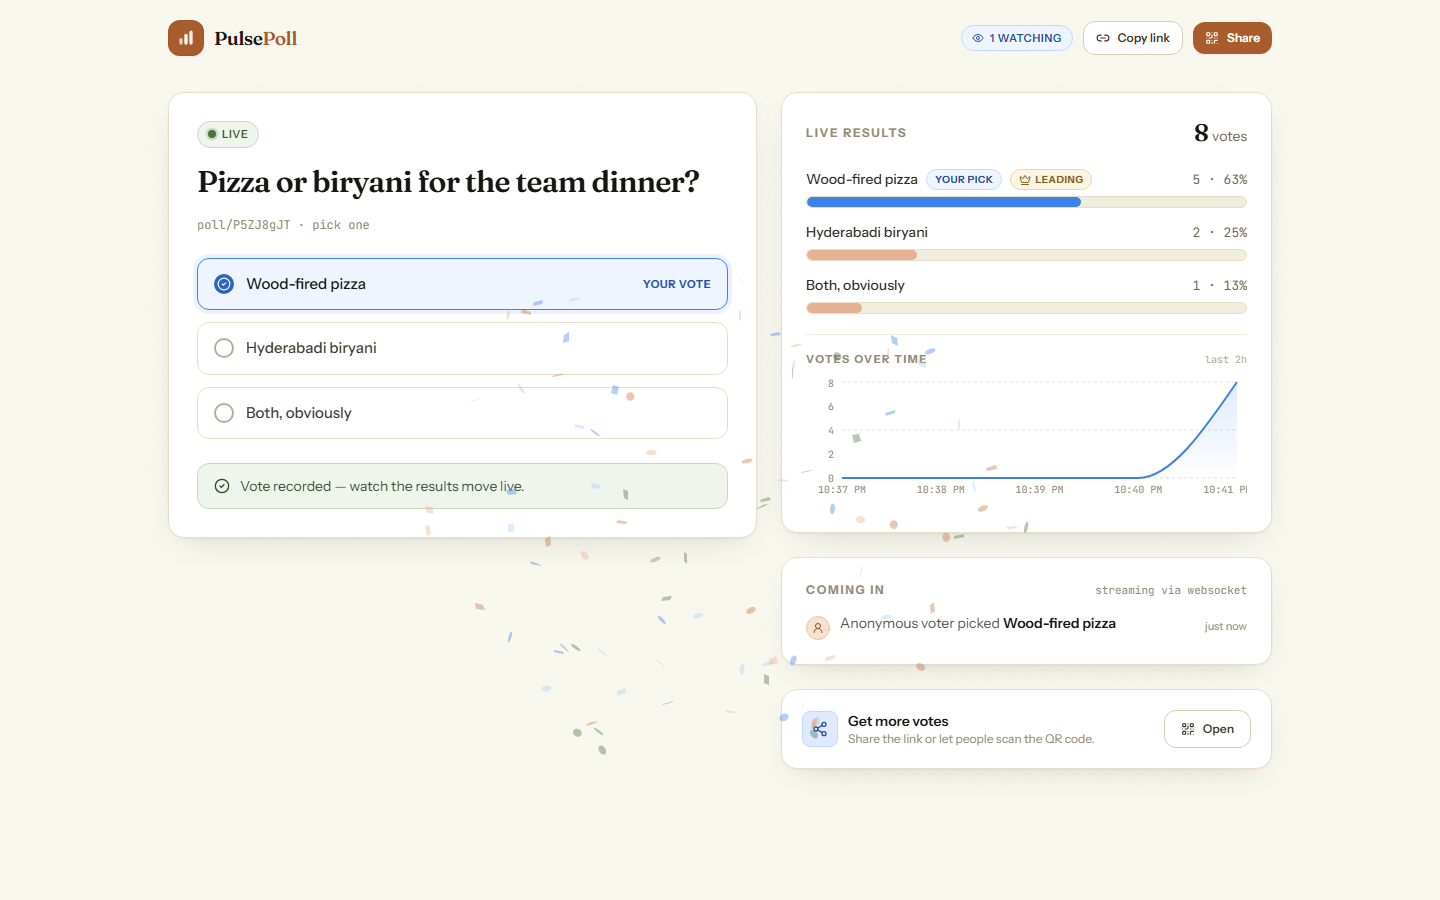
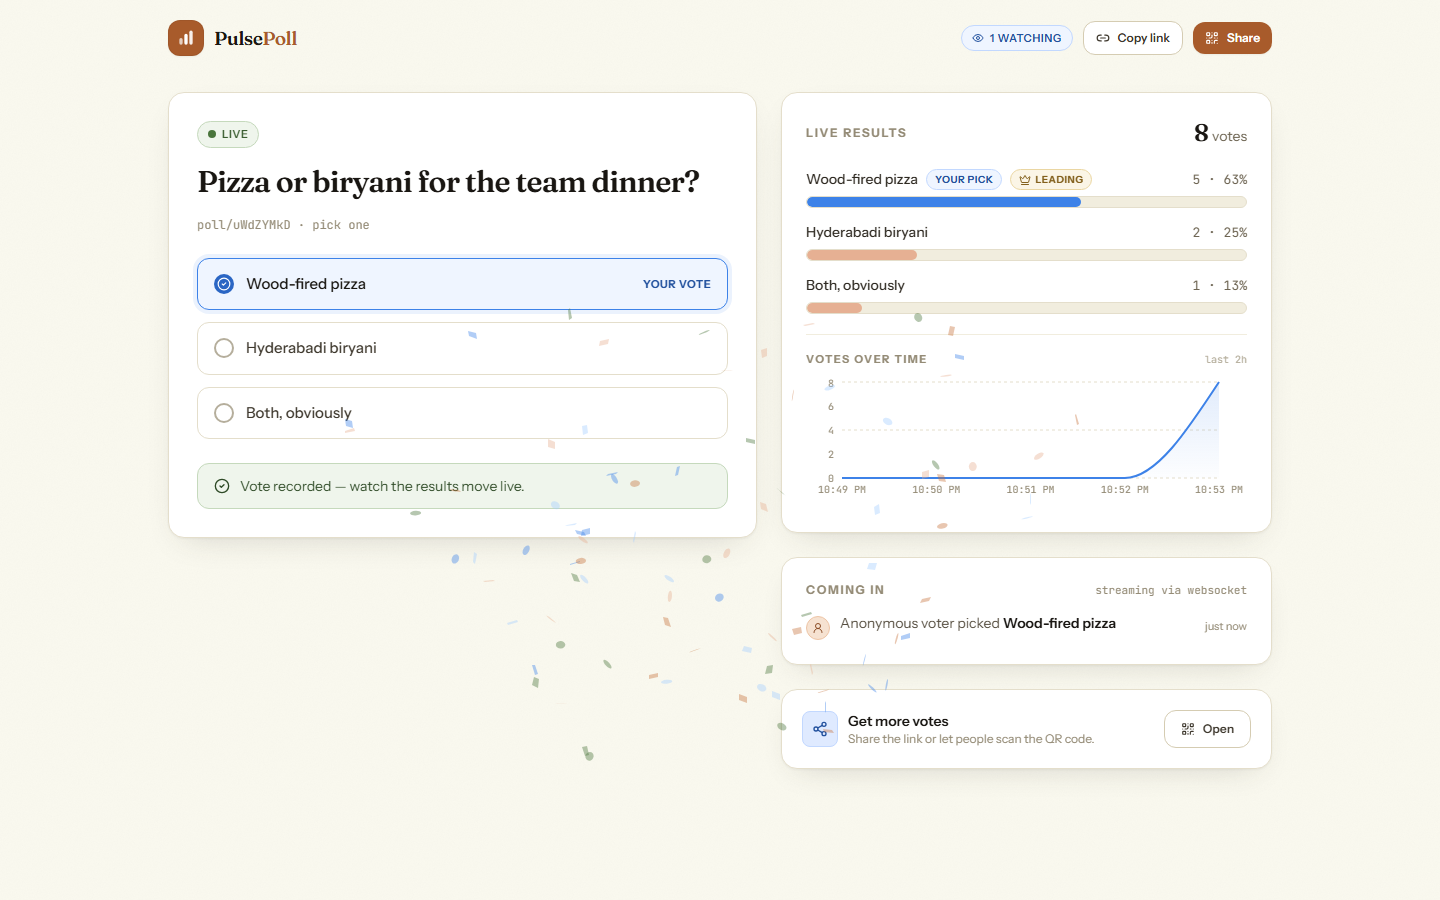
Give the timeline chart edge breathing room so the last time tick never clips

diff --git a/frontend/src/components/VotesChart.tsx b/frontend/src/components/VotesChart.tsx
@@ -52,7 +52,7 @@ export function VotesChart({ points }: { points: TimelinePoint[] }) {
   return (
     <div className="h-[132px] w-full">
       <ResponsiveContainer width="100%" height="100%">
-        <AreaChart data={data} margin={{ top: 6, right: 10, bottom: 0, left: 0 }}>
+        <AreaChart data={data} margin={{ top: 6, right: 28, bottom: 0, left: 0 }}>
           <defs>
             <linearGradient id="ppVotesFill" x1="0" y1="0" x2="0" y2="1">
               <stop offset="0%" stopColor="#3D82E8" stopOpacity={0.26} />
